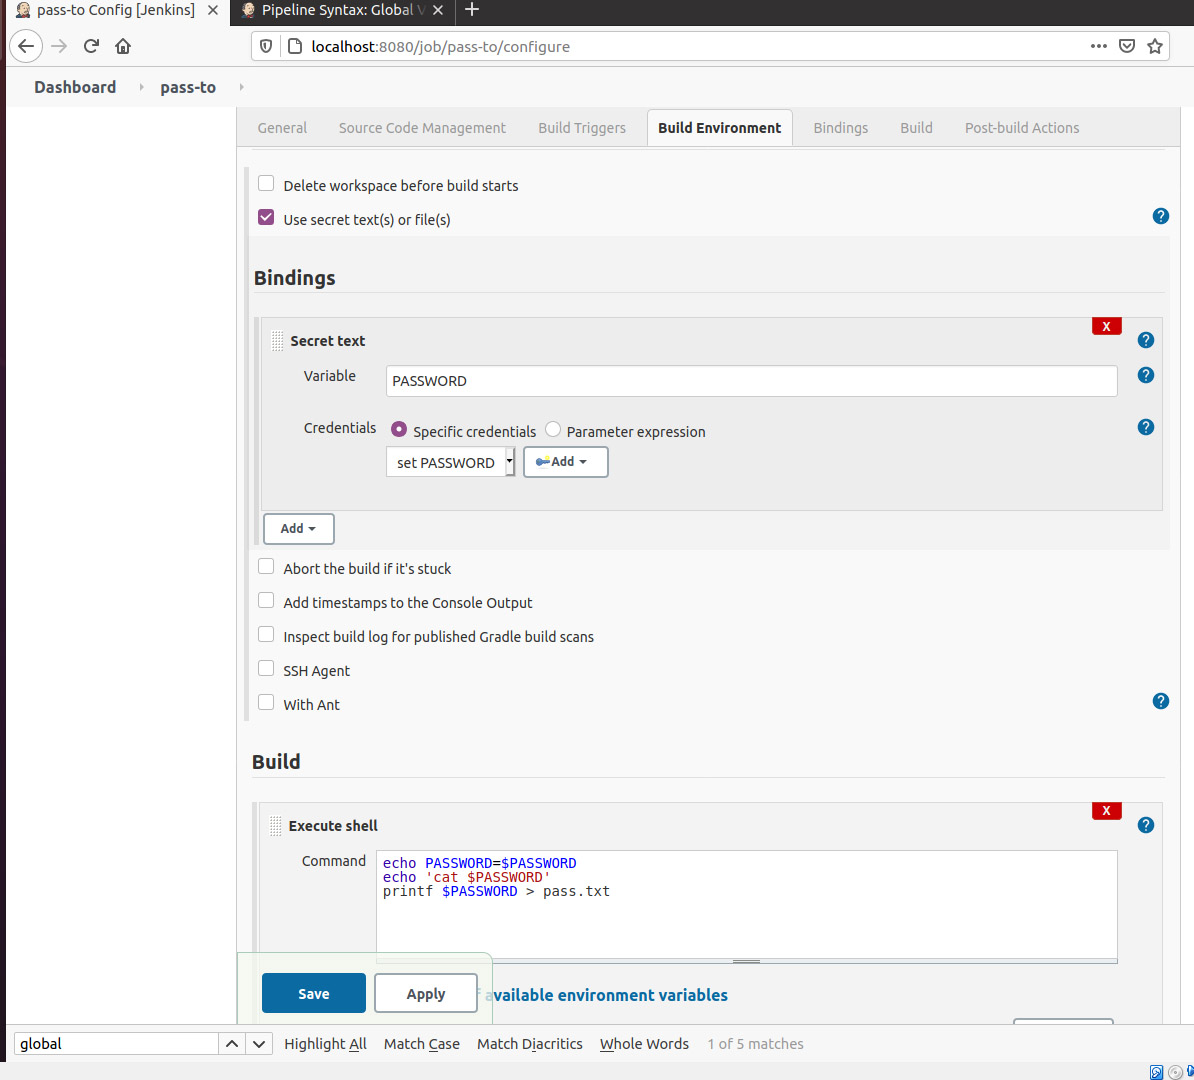
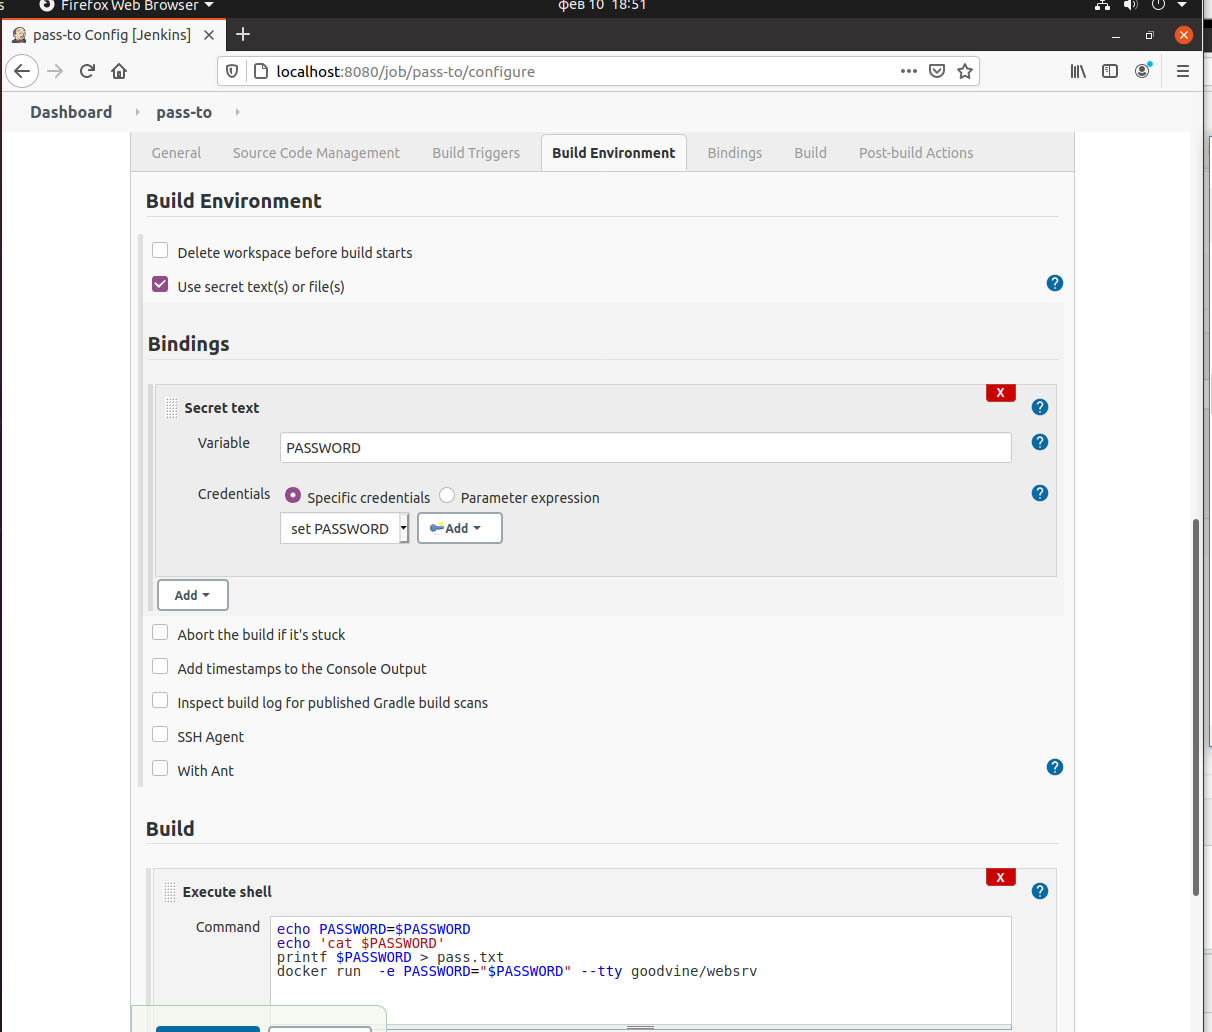
add task4

diff --git a/task4/ReadMe.md b/task4/ReadMe.md
@@ -57,7 +57,58 @@ docker start jenkins-dock
 
 В shell:
 
-time_now=$(date  +%Y-%m-%d\ %H:%M:%S)
-echo $time_now
+>	time_now=$(date  +%Y-%m-%d\ %H:%M:%S)
+>	echo $time_now
 
 ![Результат выполнения:](time.jpg)  
+
+##  Pipeline который будет на хосте выполнять команду docker ps -a ## 
+
+Создаю Pipeline Docker_ps со скриптом
+
+pipeline {
+    agent any
+
+    stages {
+        stage('Display') {
+            steps {
+                sh 'docker ps -a'
+                
+                
+            }
+        }
+    }
+}
+
+![Результат выполнения:](docke_ps.jpg)  
+
+
+##  Pipeline собирает докер образ из вашего Dockerfile на GitHub  ##
+
+Создаю Pipeline Git_docker со скриптом
+
+pipeline {
+    agent any
+
+    stages {
+        stage('Display') {
+            steps {
+                
+                sh 'docker build -t git_build_dock https://github.com/GoodVine1971/test1.git#master:task2'
+             }
+        }
+    }
+}
+
+![Результат выполнения:](git_dock.jpg)  
+
+
+##  Передать переменную PASSWORD=QWERTY  ##
+
+
+Использую Freestyle : pass-to
+
+В ном создаю переменную PASSWORD  как secret text
+
+![Вот так :](password_create.jpg) 
+ 
